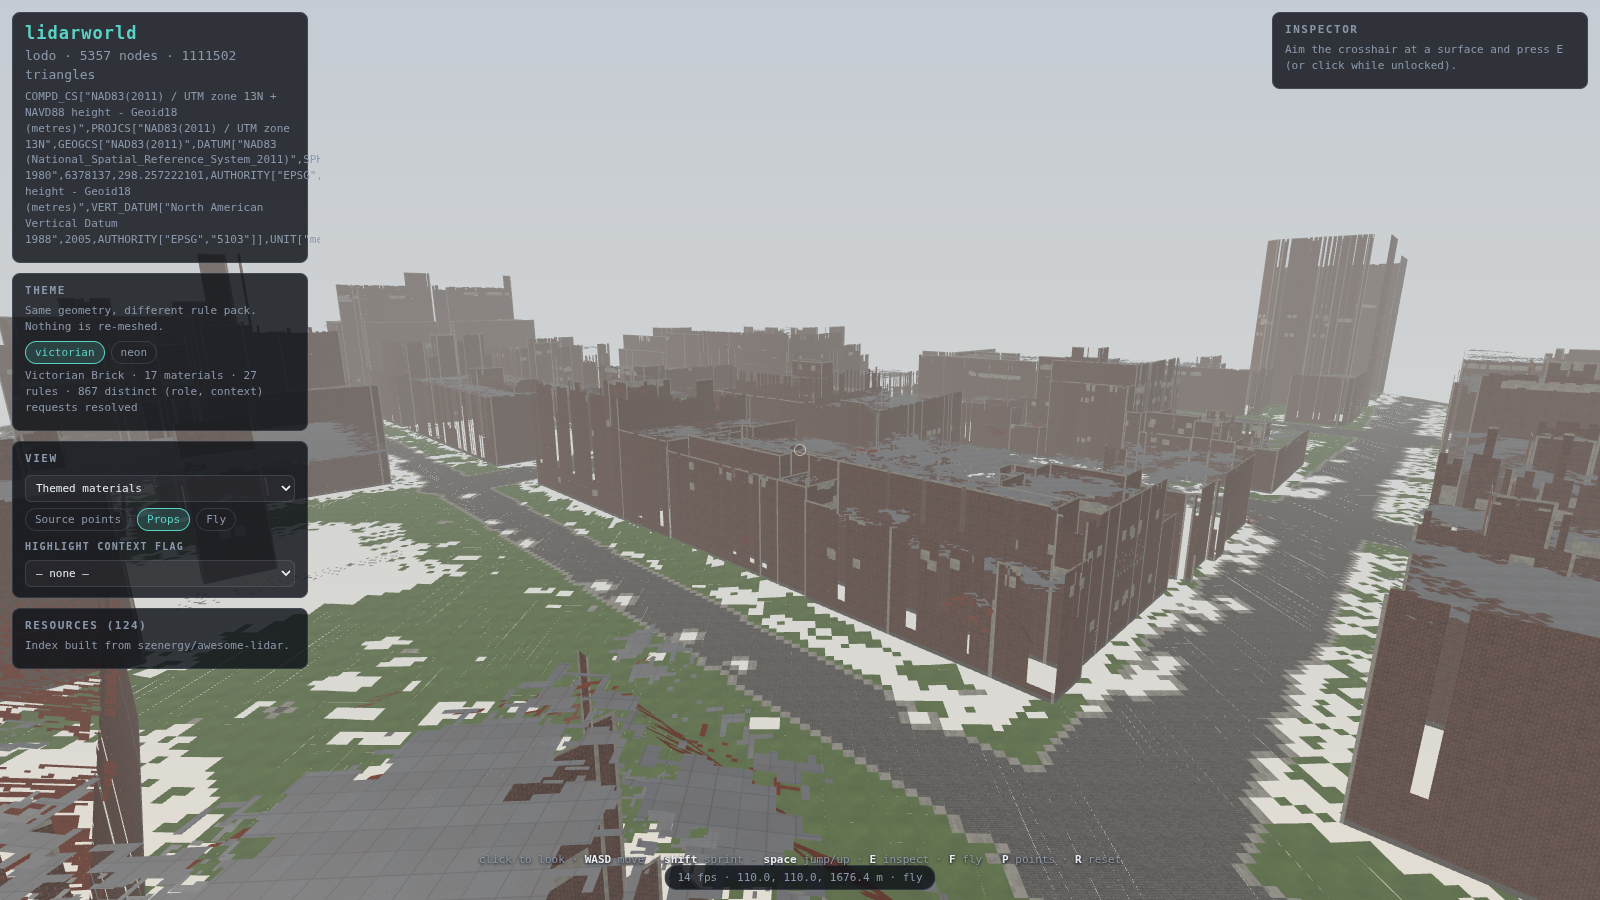
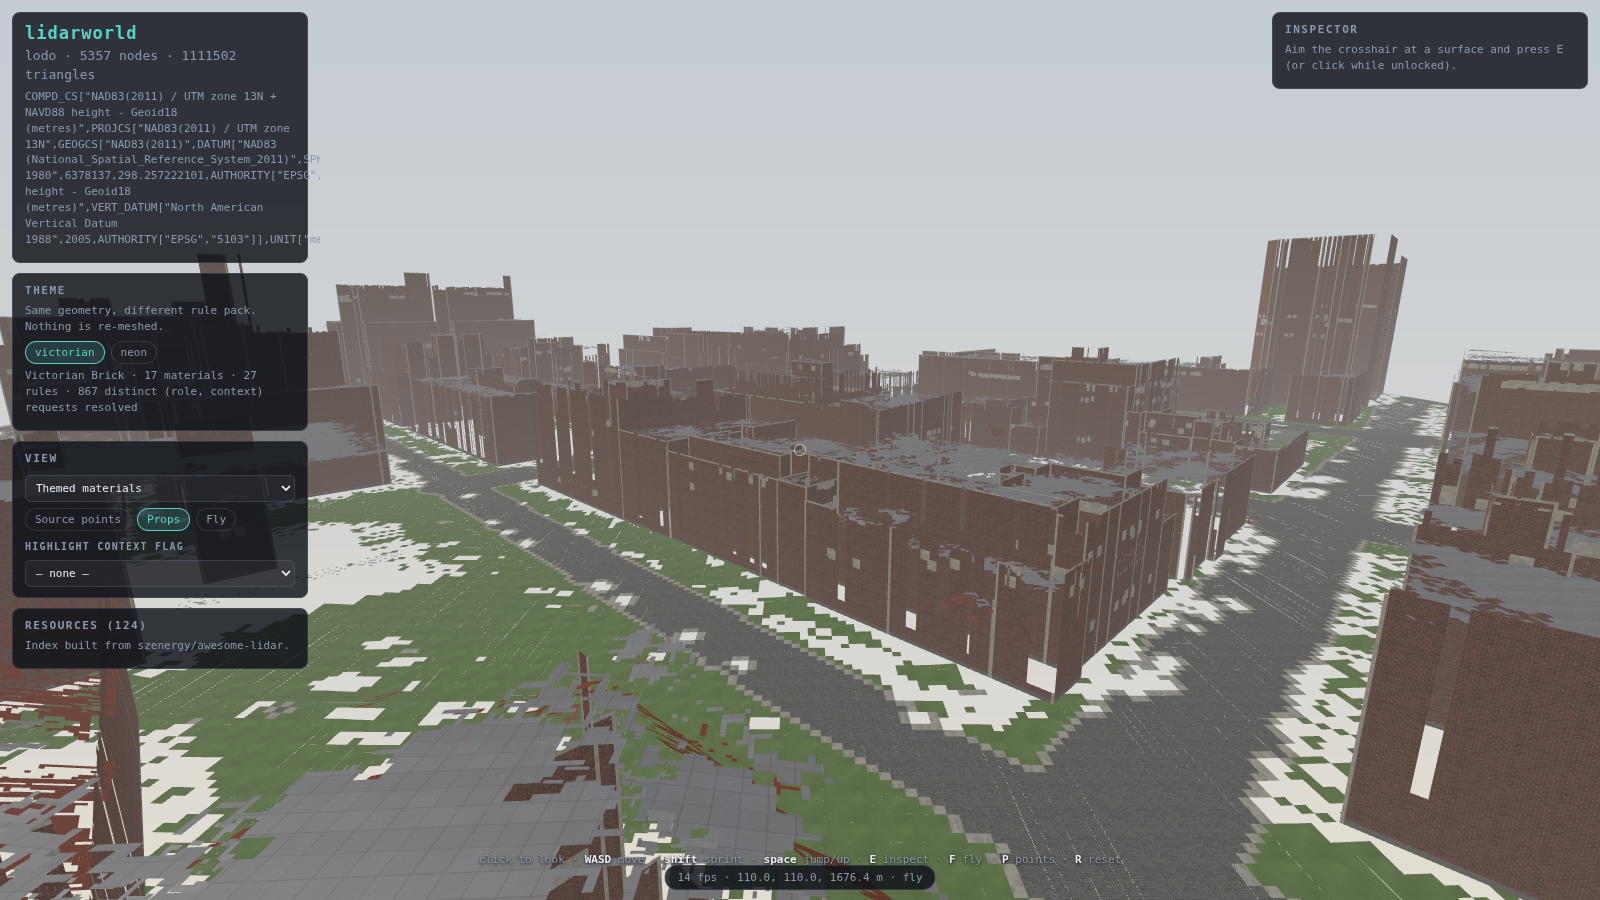
Fog: make the haze a layer on the ground, not a medium filling the sky (#26)
Uniform-density fog is right at street level and wrong everywhere above it.
Attenuate density with altitude and integrate along the view ray; the integral
is closed-form, and when both ends sit in the layer it reduces exactly to the
old formula, so street level is algebraically unchanged.

Mean gradient magnitude on the LoDo block: street +2.3%, corner +1.8%, roofline
+14.0%, overview +29.9% (victorian); +1.7% / +1.4% / +15.4% / +42.6% (neon).

Chroma was the first metric tried and it is wrong -- neon's fog colour is a
saturated purple, so less fog reads as less colour and it scored the fix at
-5.1% on a view that plainly improved.

Fog moved into one shared chunk: surfaces, instance proxies and the point cloud
had three inline copies and must agree about the atmosphere.

test_viewer_shaders.py checks the GLSL wiring, because CI never compiles a
shader and a varying declared but never written is valid GLSL that silently
reads zero -- which happened while writing this.

diff --git a/viewer/src/shaders.js b/viewer/src/shaders.js
@@ -22,8 +22,41 @@ vec3 shade(vec3 albedo, vec3 normal, vec3 viewDir, float roughness, float metall
   return albedo * (sunColor * wrapped + indirect) + sunColor * spec;
 }
 
-vec3 applyFog(vec3 color, vec3 fogColor, float dist, float density) {
-  float f = 1.0 - exp(-dist * density);
+`;
+
+// Shared by every pass that draws into the scene: surfaces, instance proxies
+// and the raw point cloud must agree about the atmosphere, or the points
+// visibly float in front of the buildings they were meshed from.
+const FOG = /* glsl */`
+// Haze is a layer lying on the ground, not a uniform medium filling the sky.
+// Treating it as uniform is what drowned the overview: at 95 m up, looking
+// across a 500 m block, every sightline is 500-700 m long and a constant
+// density turns the whole frame white -- while the same constant is correct at
+// street level, where it looks right.
+//
+// So attenuate density with altitude, rho(z) = rho0 * exp(-(z - base) / H),
+// and integrate it along the view ray. That integral has a closed form:
+//
+//     mean = (exp(-hc) - exp(-hf)) / (hf - hc)
+//
+// in units of the scale height, which is just the average of exp(-h) between
+// the two ends. Multiply by density and distance for the optical depth.
+//
+// The property that makes this safe: when both ends sit at the bottom of the
+// layer, hc ~ hf ~ 0, mean -> 1, and it reduces exactly to the old
+// exp(-dist * density). Street level is untouched; only cameras that climb out
+// of the haze see through it.
+float fogFactor(float cameraZ, float worldZ, float dist, float density,
+                float base, float scaleHeight) {
+  float hc = max(cameraZ - base, 0.0) / scaleHeight;
+  float hf = max(worldZ - base, 0.0) / scaleHeight;
+  float dh = hf - hc;
+  // The quotient is 0/0 when the ray is level; that limit is exp(-hc).
+  float mean = abs(dh) < 1e-4 ? exp(-hc) : (exp(-hc) - exp(-hf)) / dh;
+  return 1.0 - exp(-dist * density * mean);
+}
+
+vec3 applyFog(vec3 color, vec3 fogColor, float f) {
   return mix(color, fogColor, clamp(f, 0.0, 1.0));
 }
 `;
@@ -85,6 +118,8 @@ uniform vec3 uSunColor;
 uniform vec3 uAmbient;
 uniform vec3 uFogColor;
 uniform float uFogDensity;
+uniform float uFogBase;
+uniform float uFogHeight;
 uniform vec3 uCameraPosition;
 uniform float uExposure;
 uniform uint uHighlightNode;
@@ -93,6 +128,7 @@ uniform int uDebugMode;        // 0 theme, 1 context, 2 role, 3 confidence-ish
 
 out vec4 fragColor;
 
+${FOG}
 ${LIGHTING}
 
 vec3 roleColor(uint role) {
@@ -142,7 +178,8 @@ void main() {
 
   if (vNode == uHighlightNode) lit = mix(lit, vec3(0.2, 1.0, 0.9), 0.45);
 
-  lit = applyFog(lit, uFogColor, vDistance, uFogDensity);
+  lit = applyFog(lit, uFogColor, fogFactor(uCameraPosition.z, vWorld.z, vDistance,
+                                           uFogDensity, uFogBase, uFogHeight));
   lit = 1.0 - exp(-lit * uExposure);
   fragColor = vec4(pow(max(lit, 0.0), vec3(1.0 / 2.2)), color.a);
 }`;
@@ -159,6 +196,7 @@ uniform int uColorMode;   // 0 semantic, 1 role, 2 confidence
 
 out vec3 vColor;
 out float vDistance;
+out float vWorldZ;
 
 vec3 palette(uint id) {
   float h = fract(float(id) * 0.6180339887 + 0.12);
@@ -175,6 +213,7 @@ void main() {
   else vColor = mix(vec3(0.9, 0.25, 0.25), vec3(0.25, 0.9, 0.55), confidence);
 
   vDistance = length(aPosition - uCameraPosition);
+  vWorldZ = aPosition.z;
   gl_Position = uViewProjection * vec4(aPosition, 1.0);
   gl_PointSize = clamp(uPointScale / max(vDistance, 1.0), 1.0, 6.0);
 }`;
@@ -183,14 +222,19 @@ export const POINTS_FS = /* glsl */`#version 300 es
 precision highp float;
 in vec3 vColor;
 in float vDistance;
+in float vWorldZ;
 uniform vec3 uFogColor;
 uniform float uFogDensity;
+uniform float uFogBase;
+uniform float uFogHeight;
+uniform vec3 uCameraPosition;
 out vec4 fragColor;
-
+${FOG}
 void main() {
   vec2 d = gl_PointCoord - vec2(0.5);
   if (dot(d, d) > 0.25) discard;
-  float f = 1.0 - exp(-vDistance * uFogDensity);
+  float f = fogFactor(uCameraPosition.z, vWorldZ, vDistance, uFogDensity,
+                      uFogBase, uFogHeight);
   fragColor = vec4(mix(vColor, uFogColor, clamp(f, 0.0, 1.0)), 1.0);
 }`;
 
@@ -208,12 +252,14 @@ uniform vec3 uCameraPosition;
 out vec3 vNormal;
 out vec4 vTint;
 out float vDistance;
+out float vWorldZ;
 
 void main() {
   vec3 world = aPosition * aScale + aOffset;
   vNormal = normalize(aNormal / max(aScale, vec3(0.001)));
   vTint = aTint;
   vDistance = length(world - uCameraPosition);
+  vWorldZ = world.z;
   gl_Position = uViewProjection * vec4(world, 1.0);
 }`;
 
@@ -222,20 +268,25 @@ precision highp float;
 in vec3 vNormal;
 in vec4 vTint;
 in float vDistance;
+in float vWorldZ;
 
 uniform vec3 uSunDirection;
 uniform vec3 uSunColor;
 uniform vec3 uAmbient;
 uniform vec3 uFogColor;
 uniform float uFogDensity;
+uniform float uFogBase;
+uniform float uFogHeight;
+uniform vec3 uCameraPosition;
 uniform float uExposure;
 out vec4 fragColor;
-
+${FOG}
 void main() {
   vec3 normal = normalize(vNormal);
   float ndl = max(dot(normal, normalize(uSunDirection)), 0.0) * 0.8 + 0.2;
   vec3 lit = vTint.rgb * (uSunColor * ndl + uAmbient * (normal.z * 0.5 + 0.75));
-  float f = 1.0 - exp(-vDistance * uFogDensity);
+  float f = fogFactor(uCameraPosition.z, vWorldZ, vDistance, uFogDensity,
+                      uFogBase, uFogHeight);
   lit = mix(lit, uFogColor, clamp(f, 0.0, 1.0));
   lit = 1.0 - exp(-lit * uExposure);
   fragColor = vec4(pow(max(lit, 0.0), vec3(1.0 / 2.2)), vTint.a);

diff --git a/viewer/src/render.js b/viewer/src/render.js
@@ -13,6 +13,10 @@ export class Renderer {
   constructor(gl, world) {
     this.gl = gl;
     this.world = world;
+    // Where the haze layer sits. The world's floor, not the camera's, so the
+    // fog does not slide up and down as you fly -- LoDo spans 78 m of relief
+    // and anchoring to anything mobile makes distant blocks breathe.
+    this.fogBase = world.bounds ? world.bounds[0][2] : 0;
     this.surface = createProgram(gl, SURFACE_VS, SURFACE_FS, 'surface');
     this.pointsProgram = createProgram(gl, POINTS_VS, POINTS_FS, 'points');
     this.instanceProgram = createProgram(gl, INSTANCE_VS, INSTANCE_FS, 'instance');
@@ -195,6 +199,8 @@ export class Renderer {
     gl.uniform3fv(p.uniforms.uAmbient, env.ambient);
     gl.uniform3fv(p.uniforms.uFogColor, env.fog);
     gl.uniform1f(p.uniforms.uFogDensity, env.fogDensity);
+    gl.uniform1f(p.uniforms.uFogBase, this.fogBase);
+    gl.uniform1f(p.uniforms.uFogHeight, env.fogHeight);
     gl.uniform1f(p.uniforms.uExposure, env.exposure);
     gl.uniform1ui(p.uniforms.uHighlightNode, this.highlightNode >>> 0);
     gl.uniform1ui(p.uniforms.uContextMask, this.contextMask >>> 0);
@@ -217,6 +223,8 @@ export class Renderer {
     gl.uniform3fv(p.uniforms.uAmbient, env.ambient);
     gl.uniform3fv(p.uniforms.uFogColor, env.fog);
     gl.uniform1f(p.uniforms.uFogDensity, env.fogDensity);
+    gl.uniform1f(p.uniforms.uFogBase, this.fogBase);
+    gl.uniform1f(p.uniforms.uFogHeight, env.fogHeight);
     gl.uniform1f(p.uniforms.uExposure, env.exposure);
     for (const group of this.instanceGroups) {
       gl.bindVertexArray(group.vao);
@@ -235,6 +243,8 @@ export class Renderer {
     gl.uniform1i(p.uniforms.uColorMode, this.pointColorMode);
     gl.uniform3fv(p.uniforms.uFogColor, env.fog);
     gl.uniform1f(p.uniforms.uFogDensity, env.fogDensity * 0.5);
+    gl.uniform1f(p.uniforms.uFogBase, this.fogBase);
+    gl.uniform1f(p.uniforms.uFogHeight, env.fogHeight);
     gl.drawArrays(gl.POINTS, 0, this.pointCount);
   }
 }

diff --git a/viewer/src/theme.js b/viewer/src/theme.js
@@ -113,6 +113,12 @@ export function environmentOf(theme) {
     horizon: env.horizon || [0.72, 0.76, 0.8],
     fog: env.fog || [0.66, 0.7, 0.75],
     fogDensity: env.fogDensity ?? 0.008,
+    // Scale height of the haze layer, metres. Density at the ground is
+    // fogDensity and falls off by 1/e every fogHeight above it, so a camera
+    // that climbs out of the layer sees through it. 55 m is a little above
+    // LoDo's roofline, which is what makes a rooftop view clear while a street
+    // view keeps its depth.
+    fogHeight: env.fogHeight ?? 55,
     sunDirection: env.sunDirection || [0.35, 0.55, 0.75],
     sunColor: env.sunColor || [1, 0.97, 0.9],
     ambient: env.ambient || [0.4, 0.42, 0.46],

diff --git a/tests/test_viewer_shaders.py b/tests/test_viewer_shaders.py
@@ -1,0 +1,99 @@
+"""Static checks on the viewer's GLSL, because nothing else looks at it.
+
+The viewer has no test runner and CI never compiles a shader, so a broken one
+is found by a human opening the page -- or not found at all, since a varying
+that is declared but never written is valid GLSL that silently reads zero.
+
+That is not hypothetical: adding height-attenuated fog put `vWorldZ = ...` in
+the surface vertex shader while declaring `out float vWorldZ` in the point one.
+Both files still parsed. The points would have faded against a height of zero.
+
+These are text checks, not a compiler. They catch the wiring mistakes -- a
+varying written in the wrong stage, a uniform the renderer never sets -- and
+say nothing about whether the GLSL is correct.
+"""
+import re
+from pathlib import Path
+
+import pytest
+
+VIEWER = Path(__file__).resolve().parents[1] / "viewer" / "src"
+SHADERS = (VIEWER / "shaders.js").read_text()
+RENDER = (VIEWER / "render.js").read_text()
+
+#: Vertex/fragment pairs that are linked into one program by render.js.
+PROGRAMS = [("SURFACE_VS", "SURFACE_FS"), ("POINTS_VS", "POINTS_FS"),
+            ("INSTANCE_VS", "INSTANCE_FS"), ("SKY_VS", "SKY_FS")]
+
+
+def _source(name: str) -> str:
+    match = re.search(rf"export const {name} = /\* glsl \*/`(.*?)`;", SHADERS, re.S)
+    assert match, f"no shader named {name}"
+    return match.group(1)
+
+
+def _declared(source: str, direction: str) -> set[str]:
+    return set(re.findall(rf"^\s*(?:flat\s+)?{direction}\s+\w+\s+(\w+)\s*;",
+                          source, re.M))
+
+
+def _assigned(source: str) -> set[str]:
+    """Names assigned anywhere, including inside a branch.
+
+    `if (uColorMode == 0) vColor = ...` is a real assignment, so anchoring this
+    to the start of a line reports a varying as unwritten when it is written
+    three times. The lookarounds keep `==`, `<=` and friends out.
+    """
+    return set(re.findall(r"(?<![=!<>+\-*/])\b(\w+)\s*=(?!=)", source))
+
+
+@pytest.mark.parametrize("vs,fs", PROGRAMS)
+def test_every_varying_read_is_written(vs, fs):
+    """A fragment `in` with no matching vertex `out` reads zero, silently."""
+    vertex, fragment = _source(vs), _source(fs)
+    outs, ins = _declared(vertex, "out"), _declared(fragment, "in")
+    missing = ins - outs
+    assert not missing, f"{fs} reads {sorted(missing)}, which {vs} does not declare"
+
+    never_written = outs - _assigned(vertex)
+    assert not never_written, (
+        f"{vs} declares {sorted(never_written)} but never assigns it")
+
+
+@pytest.mark.parametrize("name", [n for pair in PROGRAMS for n in pair])
+def test_shared_chunks_are_interpolated_not_pasted(name):
+    """Each shader gets the shared source by reference, so there is one copy."""
+    source = _source(name)
+    for call, chunk in (("fogFactor(", "${FOG}"), ("shade(", "${LIGHTING}")):
+        if call in source and f"float {call[:-1]}" not in source:
+            assert chunk in source, f"{name} calls {call} without {chunk}"
+
+
+def test_fog_uniforms_are_set_by_the_renderer():
+    """A uniform nobody sets is zero: scaleHeight 0 divides by zero."""
+    for name in ("SURFACE_FS", "POINTS_FS", "INSTANCE_FS"):
+        for uniform in _declared_uniforms(_source(name)) & {
+                "uFogBase", "uFogHeight", "uFogDensity", "uFogColor"}:
+            assert f"uniforms.{uniform}" in RENDER, (
+                f"{name} declares {uniform} and render.js never sets it")
+
+
+def _declared_uniforms(source: str) -> set[str]:
+    return set(re.findall(r"^\s*uniform\s+\w+\s+(\w+)", source, re.M))
+
+
+def test_fog_is_height_attenuated_everywhere_or_nowhere():
+    """Surfaces, instance proxies and points must share an atmosphere, or the
+    point cloud floats in front of the buildings it was meshed from."""
+    for name in ("SURFACE_FS", "POINTS_FS", "INSTANCE_FS"):
+        source = _source(name)
+        assert "fogFactor(" in source, f"{name} does not use the shared fog"
+        assert "exp(-vDistance * uFogDensity)" not in source, (
+            f"{name} still has the old uniform-density fog inline")
+
+
+def test_the_fog_layer_is_anchored_to_the_world_not_the_camera():
+    """Anchoring to the camera makes distant blocks breathe as you fly."""
+    assert "this.fogBase" in RENDER
+    assert re.search(r"fogBase\s*=\s*world\.bounds", RENDER), (
+        "fog base should come from the world's floor")
